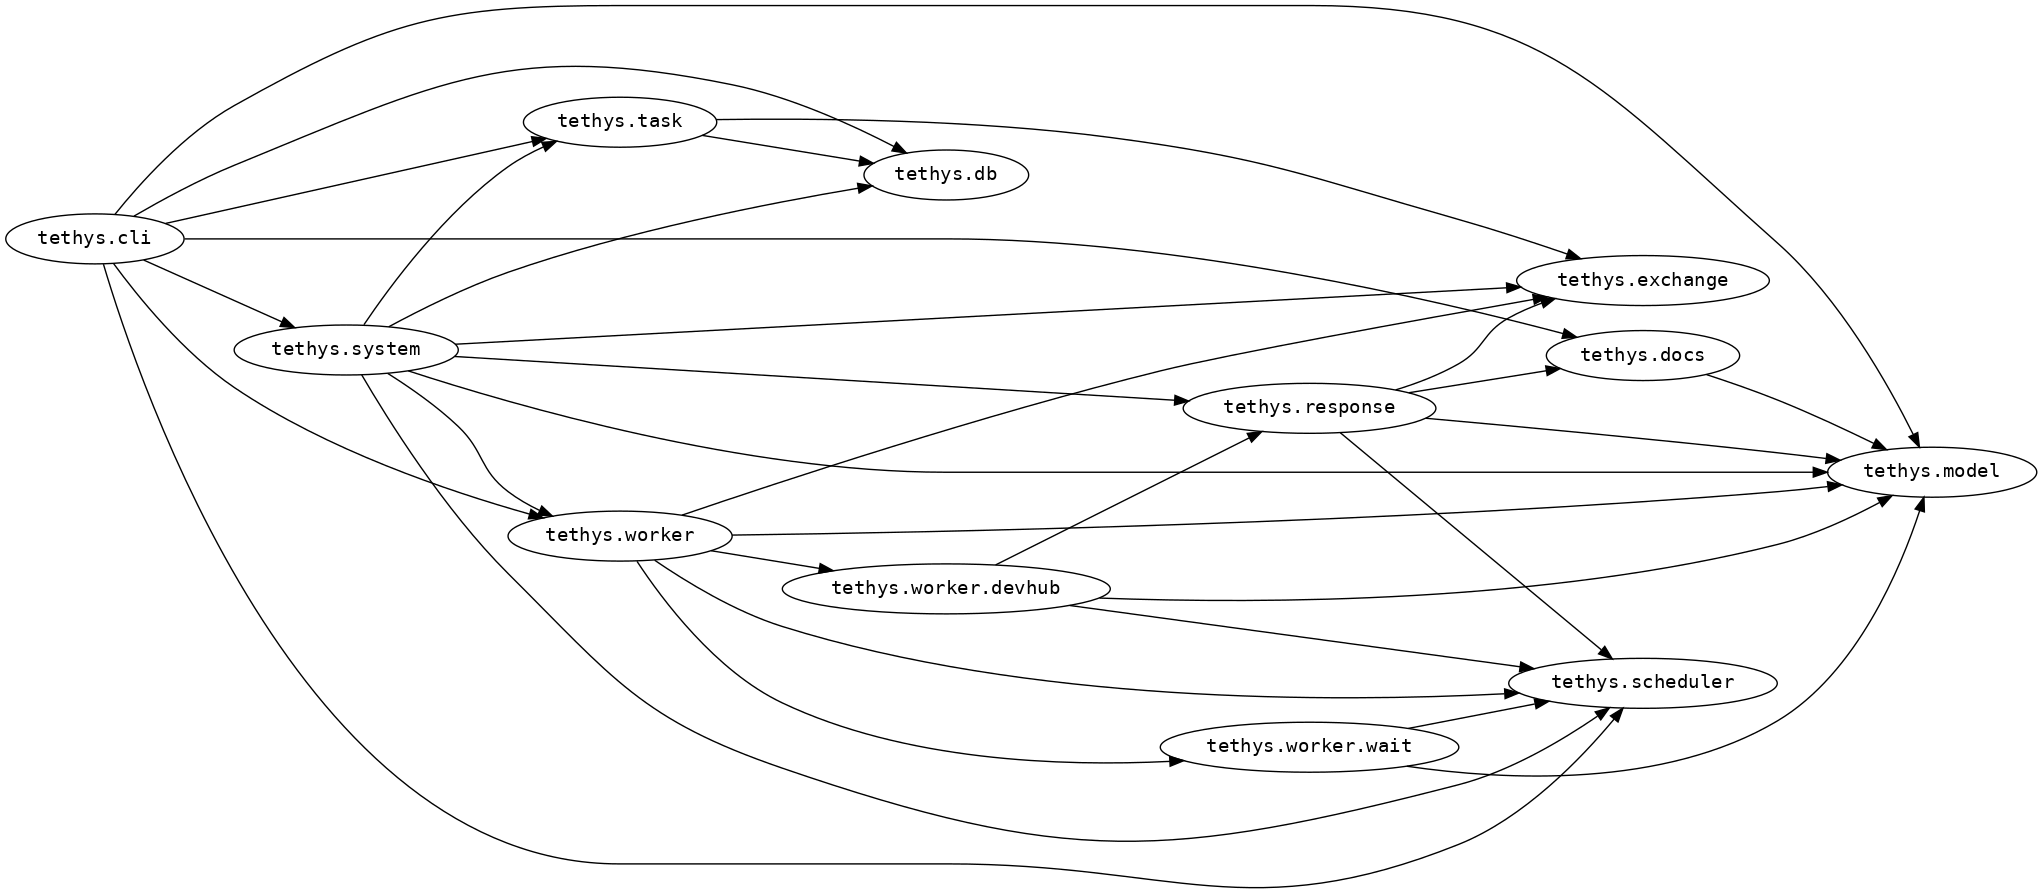
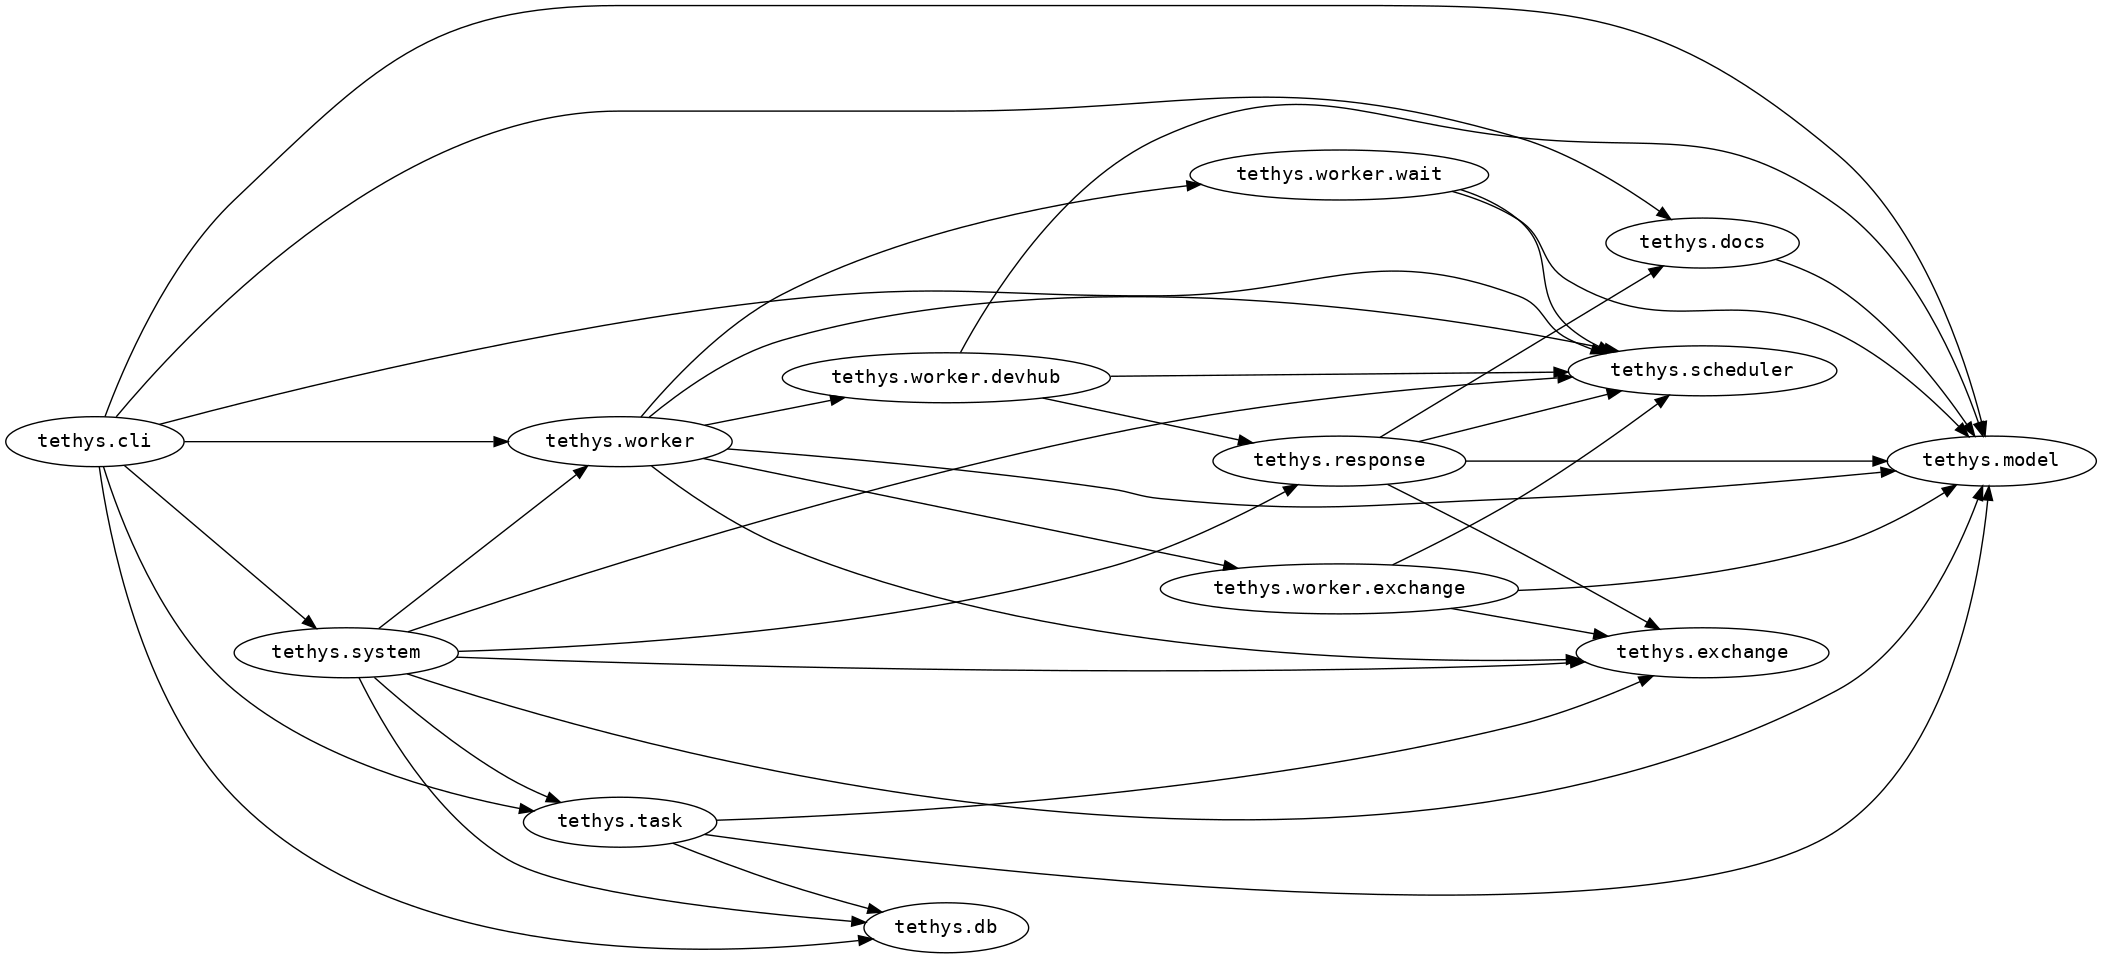
future aproach introduces cyclic deps: shed -> worker -> sched

diff --git a/README.md b/README.md
@@ -34,3 +34,9 @@ nice option to understand the system during runtime.
 ```shell
 clojure -M:docs
 ```
+
+# generate namespace graph
+
+```shell
+clj -X:hiera
+```
